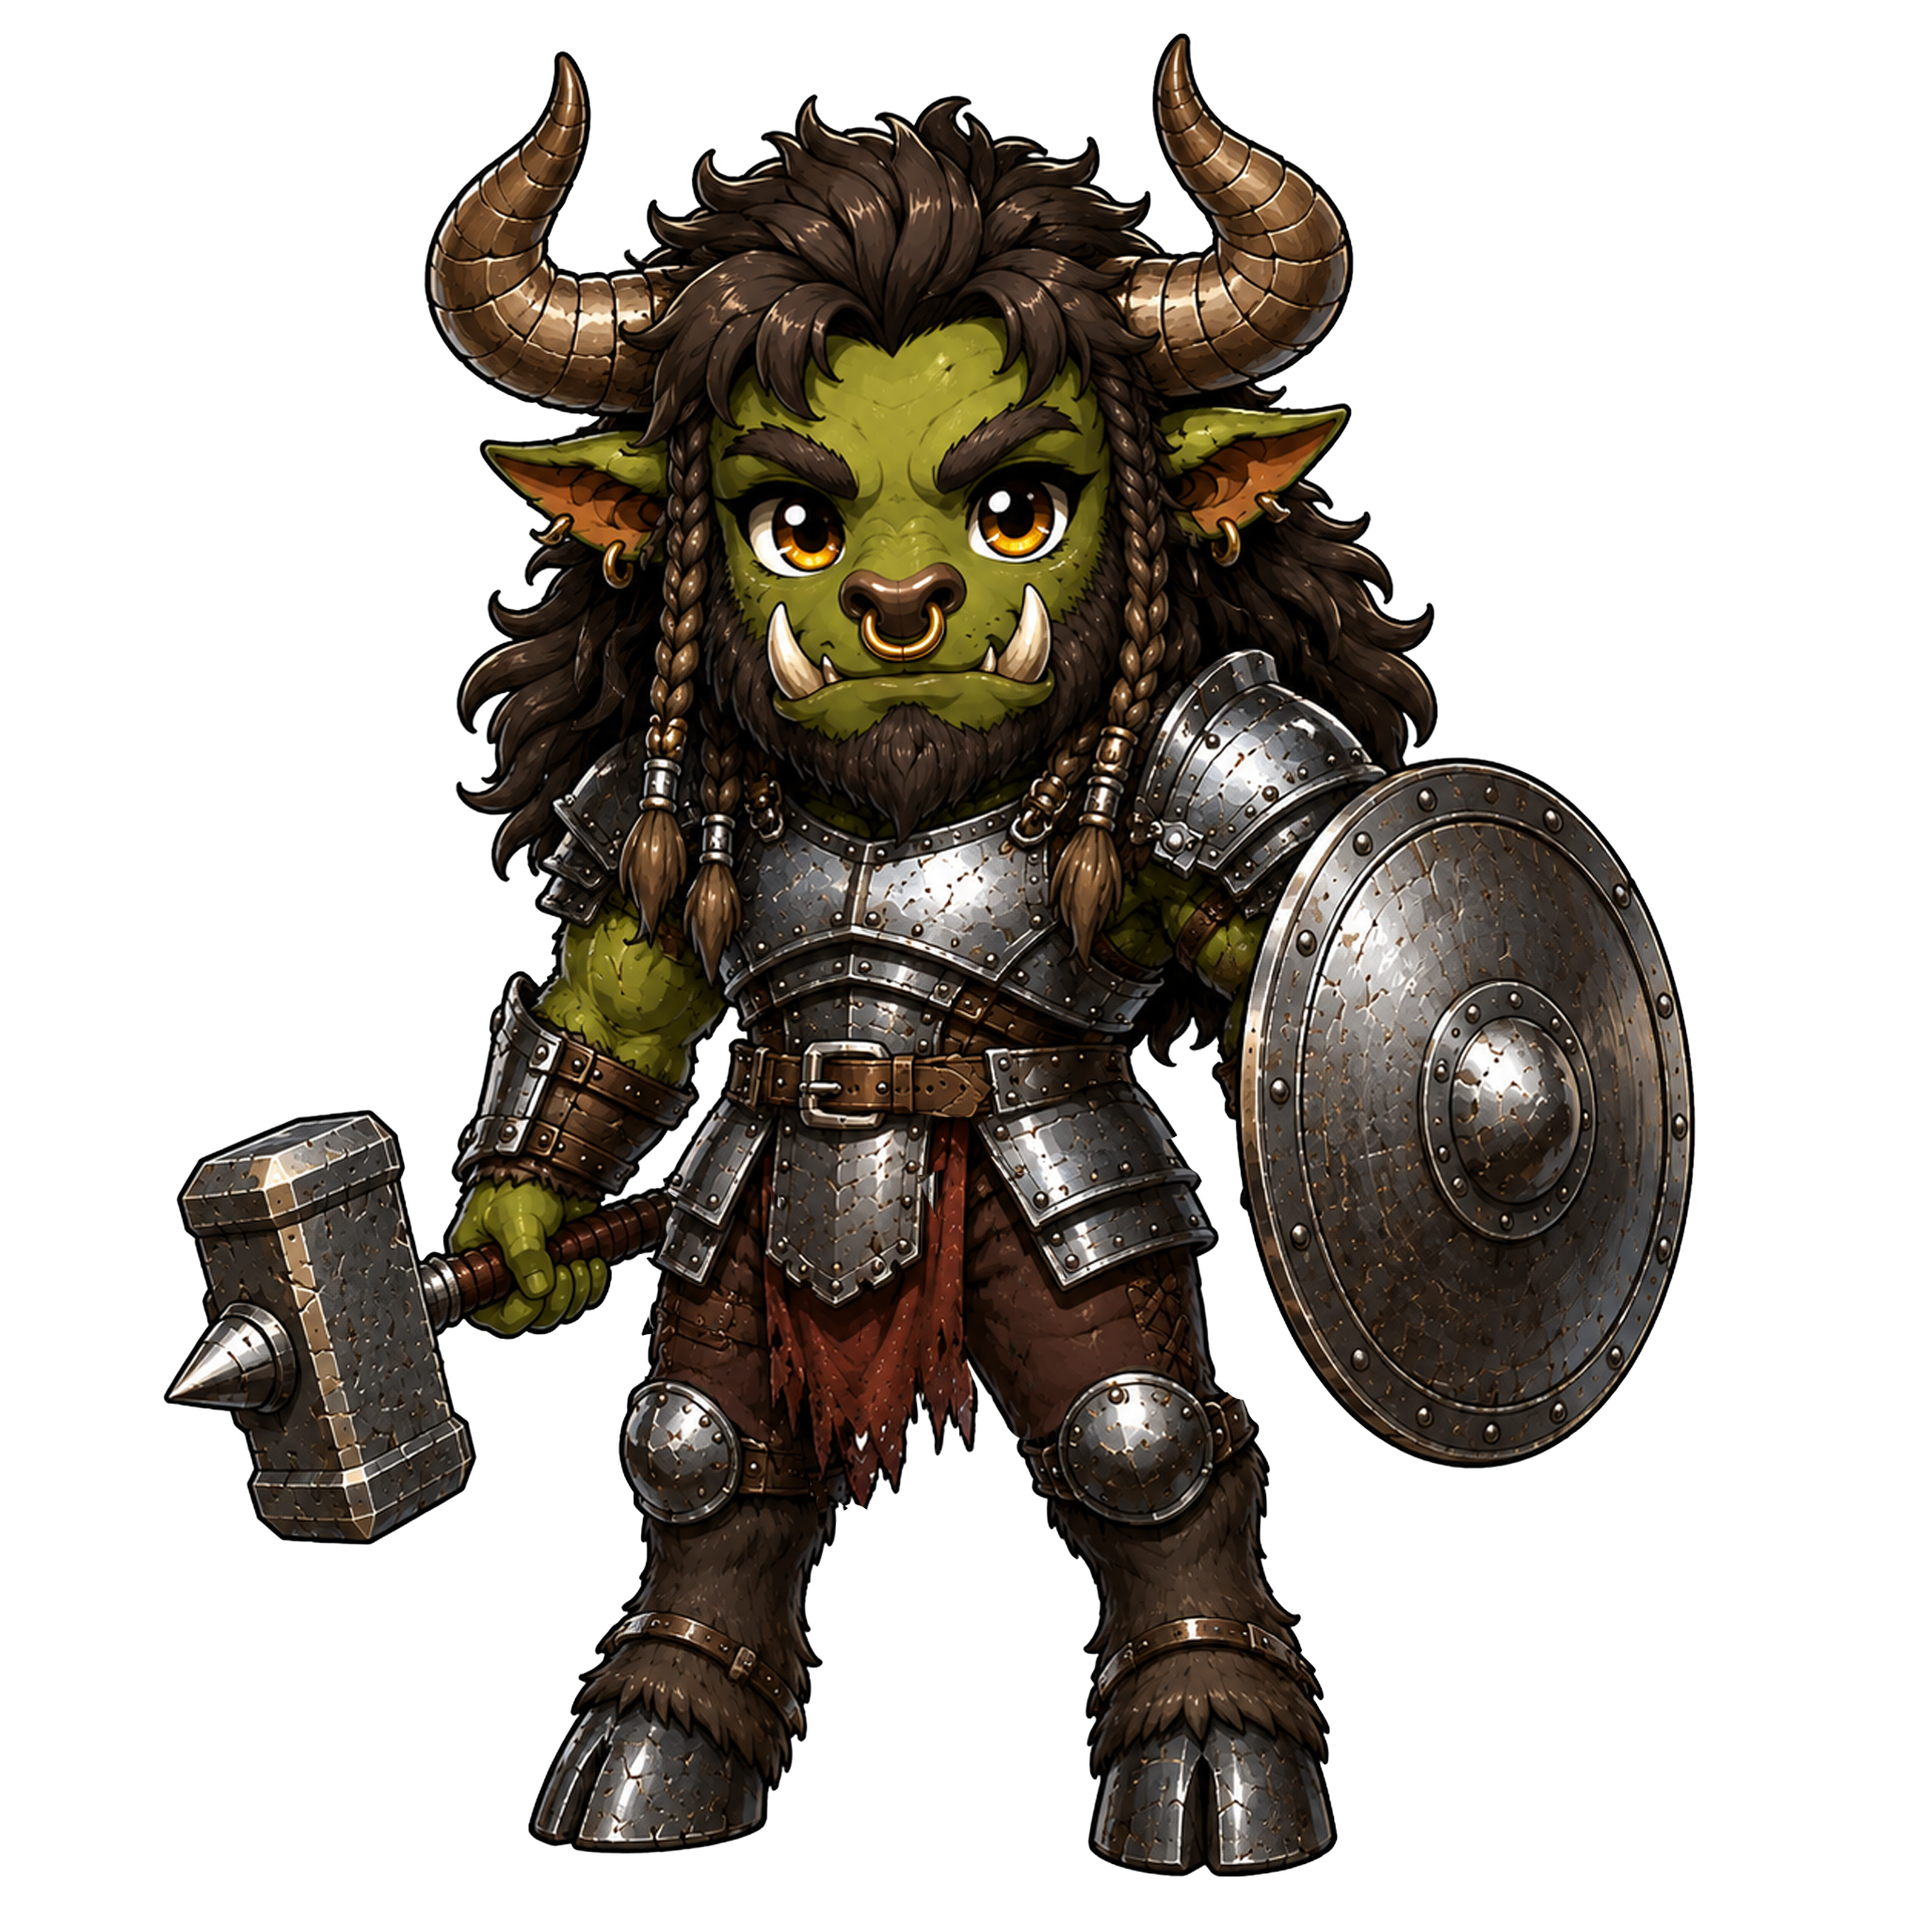
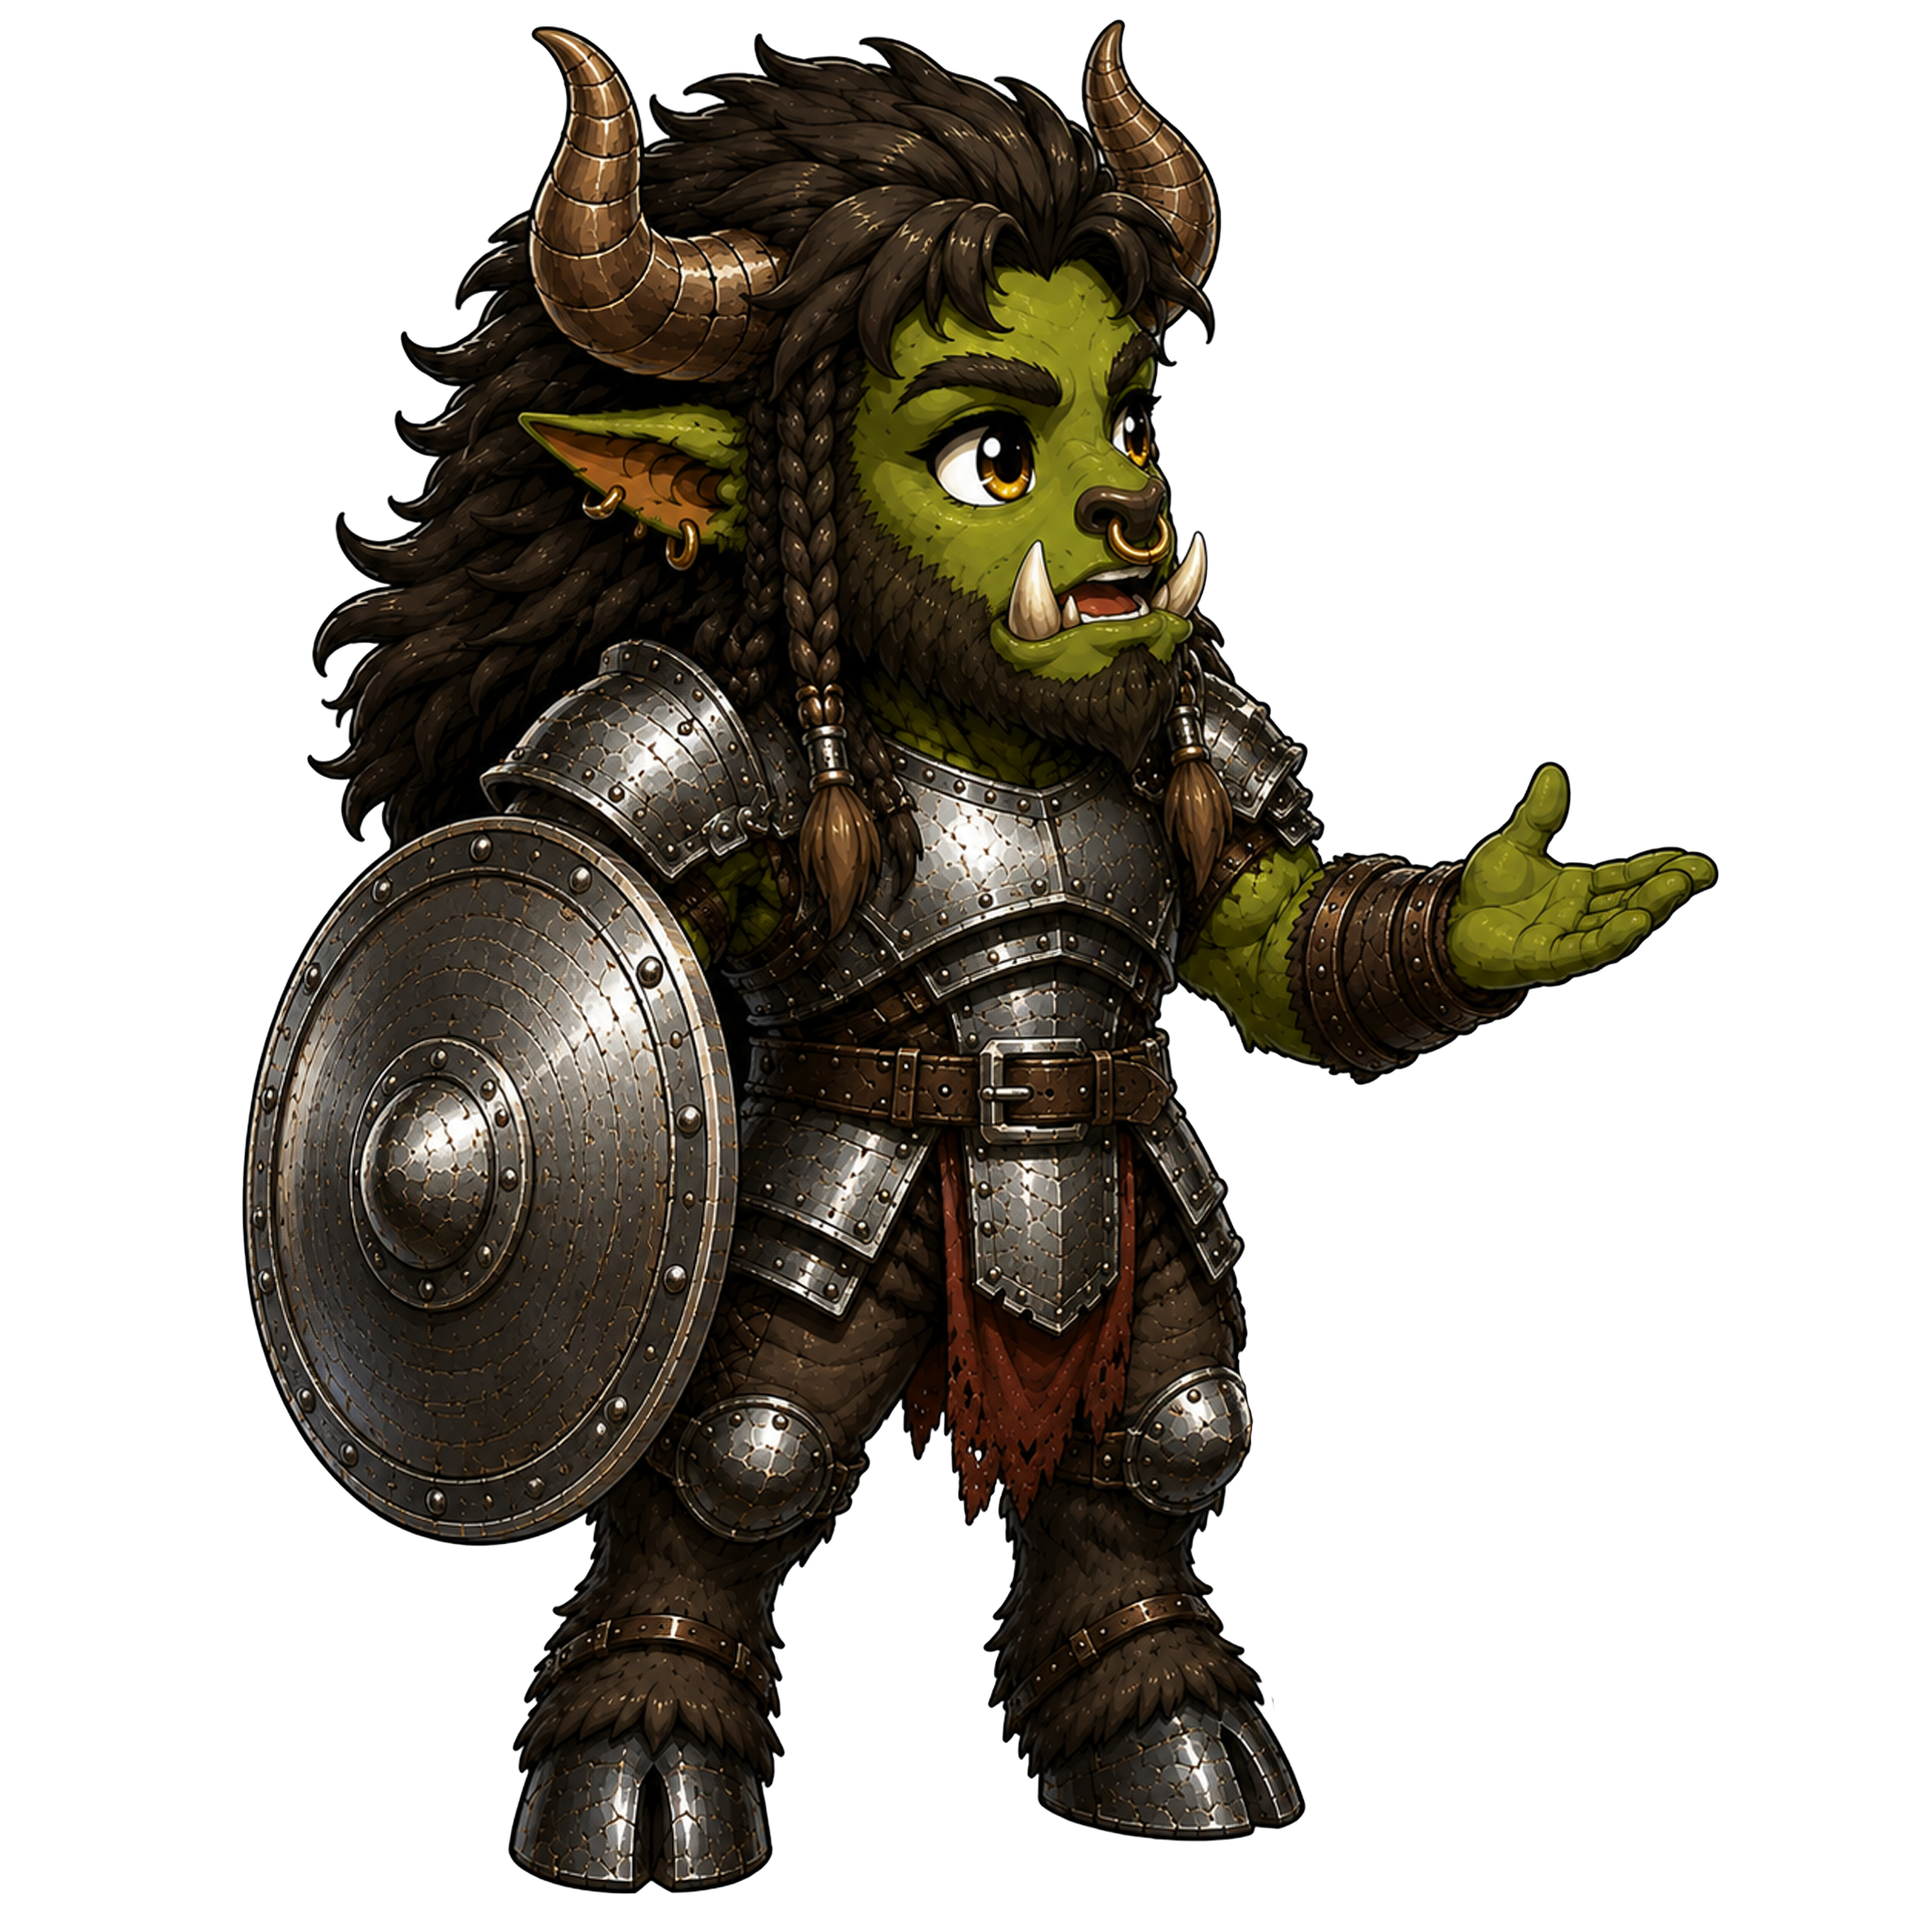
card

diff --git a/public/Projects/pf2e-overlay/overlay/overlay.css b/public/Projects/pf2e-overlay/overlay/overlay.css
@@ -719,6 +719,7 @@ body {
 }
 
 .card.player {
+	position: relative;
 	flex-direction: column;
 	height: 172px;
 	width: 150px;
@@ -730,10 +731,11 @@ body {
 }
 
 .card.player img {
+	position: absolute;
 	height: 100%;
 	width: 100%;
 	border-radius: 28px 8px 28px 8px;
-	object-fit: contain;
+	object-fit: cover;
 	transition: 0.1s;
 	box-shadow: 0 2px 12px rgba(0, 0, 0, 0.6);
 
@@ -752,6 +754,10 @@ body {
 }
 
 .name {
+	position: absolute;
+	top: 5px;
+	left: 50%;
+	transform: translateX(-50%);
 	font-weight: bold;
 	font-size: 1.2rem;
 	letter-spacing: 1px;
@@ -778,6 +784,10 @@ body {
 }
 
 .skill {
+	position: absolute;
+	bottom: 5px;
+	left: 50%;
+	transform: translateX(-50%);
 	color: var(--rune-glow);
 	font-style: italic;
 	background-color: var(--card-bg);
